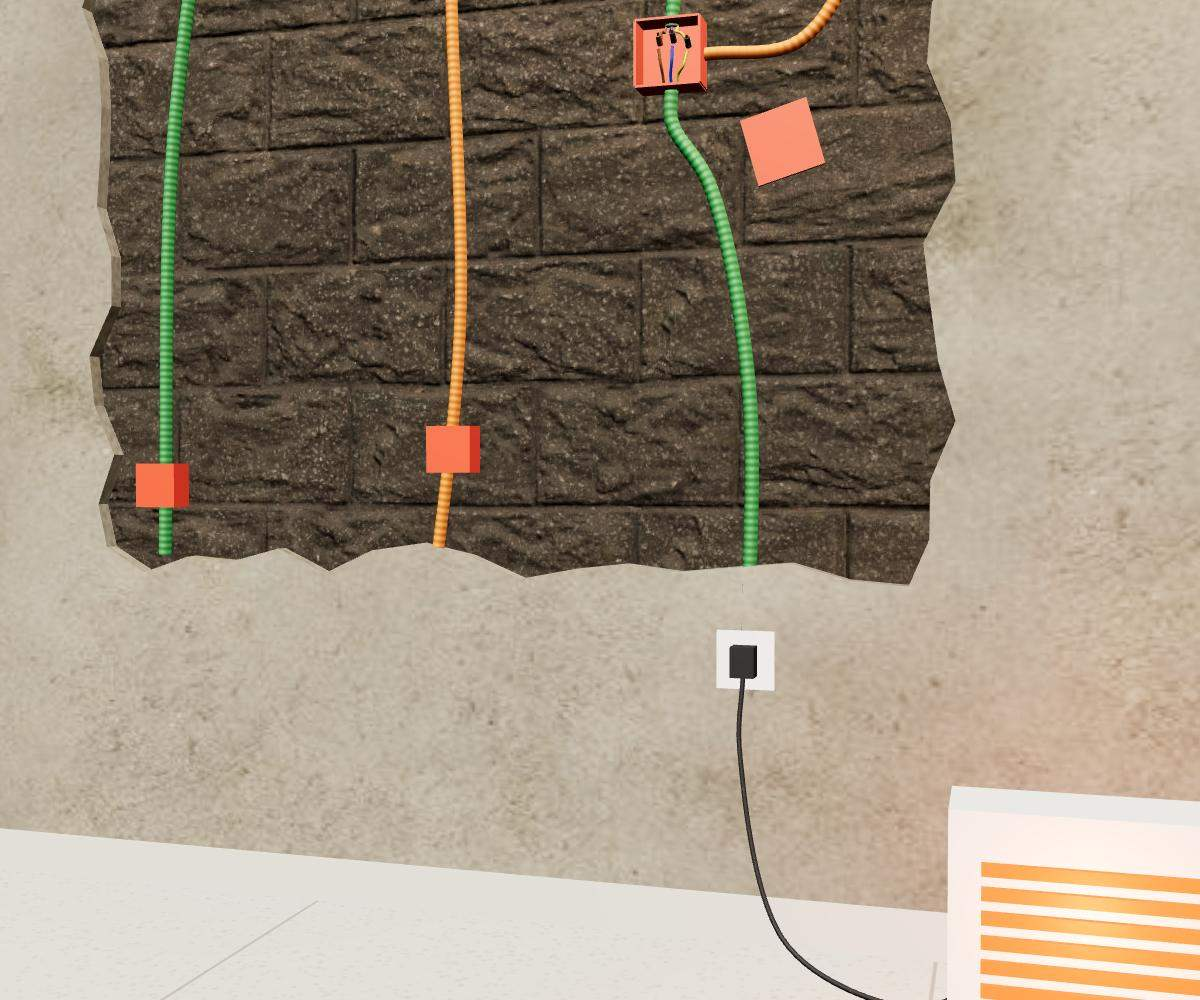
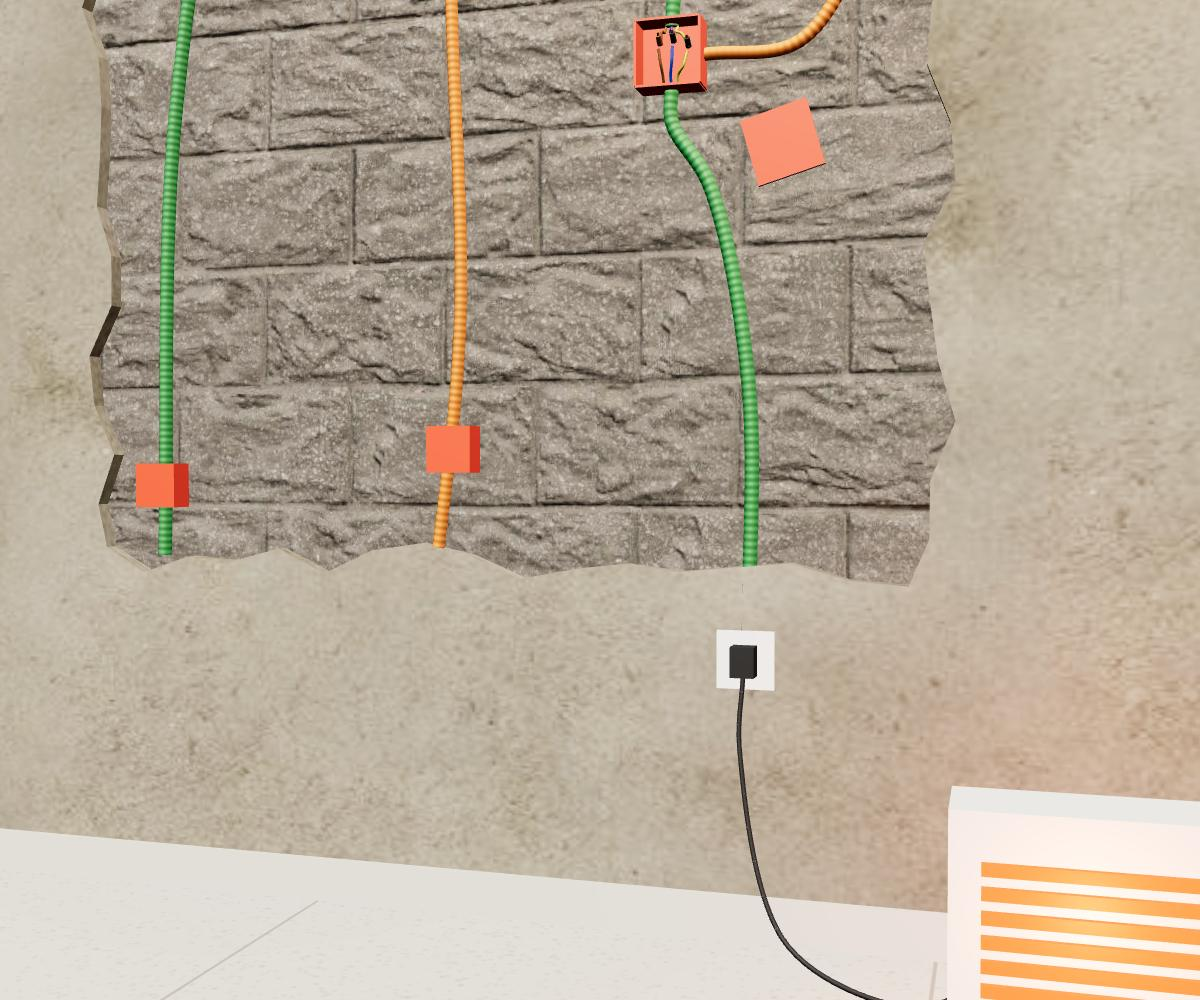
Deploy demos 18

diff --git a/or-hadash-electrician-haifa/short3d.js b/or-hadash-electrician-haifa/short3d.js
@@ -76,7 +76,7 @@ export function initShort3D(host, labelHost, opts = {}) {
   const M = (o) => { const m = new THREE.MeshStandardMaterial(o); m.userData.env = o.envMapIntensity ?? 1; mats.push(m); return m; };
 
   // ---- the block wall, as in the photographs of Salah's rough-in work
-  const blockMat = M({ map: tex('concrete_block_wall_diff', true, 2.2, 1.7), normalMap: tex('concrete_block_wall_nor_gl', false, 2.2, 1.7), roughnessMap: tex('concrete_block_wall_rough', false, 2.2, 1.7), roughness: 1, color: 0xd9d4cc });
+  const blockMat = M({ map: tex('concrete_block_wall_diff', true, 2.2, 1.7), normalMap: tex('concrete_block_wall_nor_gl', false, 2.2, 1.7), roughnessMap: tex('concrete_block_wall_rough', false, 2.2, 1.7), roughness: 1, color: 0xe8e4de });
   const wall = new THREE.Mesh(new THREE.BoxGeometry(3.6, 2.7, 0.2), blockMat); wall.position.set(0, 0.25, -0.1); scene.add(wall);
 
   // ---- the plaster, with the opening cut by hand (ragged, irregular edge)
